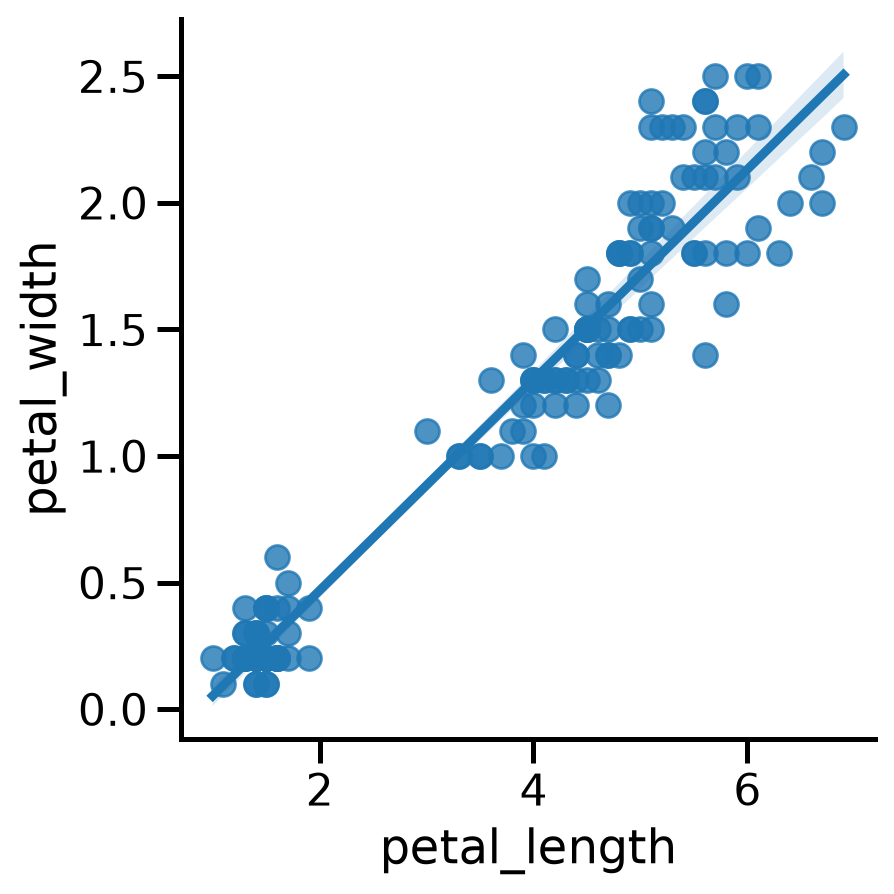
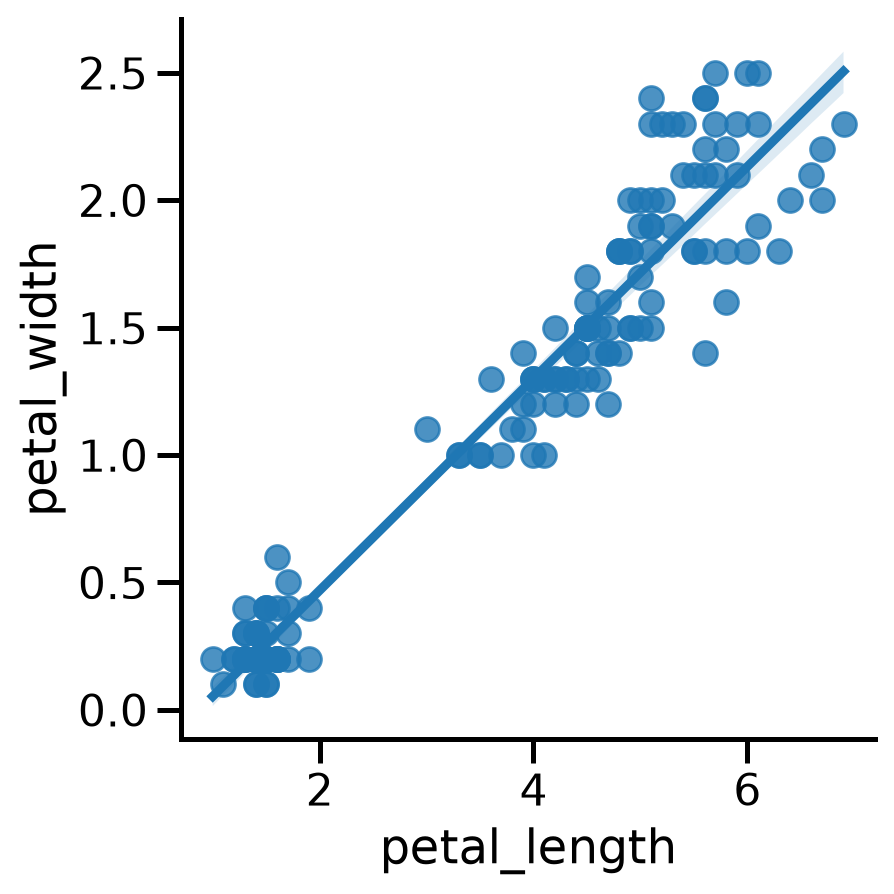
Built site for gh-pages

diff --git a/Ten_sent_corr/index.html b/Ten_sent_corr/index.html
@@ -226,7 +226,7 @@ div.csl-indent {
 
 <section id="introduction" class="level1">
 <h1>Introduction</h1>
-<div id="d594854a" class="cell" data-execution_count="1">
+<div id="823fd072" class="cell" data-execution_count="1">
 <div class="code-copy-outer-scaffold"><div class="sourceCode cell-code" id="cb1"><pre class="sourceCode python code-with-copy"><code class="sourceCode python"><span id="cb1-1"><a href="#cb1-1" aria-hidden="true" tabindex="-1"></a><span class="im">import</span> pandas <span class="im">as</span> pd</span>
 <span id="cb1-2"><a href="#cb1-2" aria-hidden="true" tabindex="-1"></a><span class="im">import</span> numpy <span class="im">as</span> np</span>
 <span id="cb1-3"><a href="#cb1-3" aria-hidden="true" tabindex="-1"></a></span>
@@ -250,7 +250,7 @@ div.csl-indent {
 </section>
 <section id="result" class="level1">
 <h1>Result</h1>
-<div id="eece08b1" class="cell" data-execution_count="2">
+<div id="3cc1770f" class="cell" data-execution_count="2">
 <div class="code-copy-outer-scaffold"><div class="sourceCode cell-code" id="cb2"><pre class="sourceCode python code-with-copy"><code class="sourceCode python"><span id="cb2-1"><a href="#cb2-1" aria-hidden="true" tabindex="-1"></a>corr_val <span class="op">=</span> np.array(df[[<span class="st">'petal_length'</span>, <span class="st">'petal_width'</span>]].corr())[<span class="dv">0</span>][<span class="dv">1</span>]</span>
 <span id="cb2-2"><a href="#cb2-2" aria-hidden="true" tabindex="-1"></a><span class="bu">print</span>(corr_val)</span>
 <span id="cb2-3"><a href="#cb2-3" aria-hidden="true" tabindex="-1"></a></span>
@@ -296,7 +296,7 @@ Figure&nbsp;1: A scatterplot of petal length and width
 <section id="discussion" class="level1">
 <h1>Discussion</h1>
 <p>Now that this long-standing problem (of over 10 minutes) is resolved (thanks to the diligent efforts of UW-Madison’s DSHB program) science has once again triumphed in establishing that there is a positive correlative relationship between iris petal width and iris petal length as a matter of empircally certain ground truth. The end (because we needed a second sentence).</p>
-<div id="eebb8b3d" class="cell" data-execution_count="4">
+<div id="556e9c32" class="cell" data-execution_count="4">
 <div class="code-copy-outer-scaffold"><div class="sourceCode cell-code" id="cb5"><pre class="sourceCode python code-with-copy"><code class="sourceCode python"><span id="cb5-1"><a href="#cb5-1" aria-hidden="true" tabindex="-1"></a>sns.lmplot(data <span class="op">=</span> df, x <span class="op">=</span> <span class="st">'petal_length'</span>,y <span class="op">=</span> <span class="st">'petal_width'</span>)</span></code></pre></div><button title="Copy to Clipboard" class="code-copy-button"><i class="bi"></i></button></div>
 <div class="cell-output cell-output-display">
 <div>
@@ -306,7 +306,7 @@ Figure&nbsp;1: A scatterplot of petal length and width
 </div>
 </div>
 </div>
-<div id="2ad17cce" class="cell" data-execution_count="5">
+<div id="41655298" class="cell" data-execution_count="5">
 <div class="code-copy-outer-scaffold"><div class="sourceCode cell-code" id="cb6"><pre class="sourceCode python code-with-copy"><code class="sourceCode python"><span id="cb6-1"><a href="#cb6-1" aria-hidden="true" tabindex="-1"></a>sns.jointplot(x <span class="op">=</span>df[<span class="st">'petal_length'</span>], </span>
 <span id="cb6-2"><a href="#cb6-2" aria-hidden="true" tabindex="-1"></a>y <span class="op">=</span> df[<span class="st">'petal_width'</span>], kind <span class="op">=</span> <span class="st">"hex"</span>,</span>
 <span id="cb6-3"><a href="#cb6-3" aria-hidden="true" tabindex="-1"></a>color <span class="op">=</span> <span class="st">"#4CB391"</span>)</span></code></pre></div><button title="Copy to Clipboard" class="code-copy-button"><i class="bi"></i></button></div>

diff --git a/index.html b/index.html
@@ -226,7 +226,7 @@ div.csl-indent {
 
 <section id="introduction" class="level1">
 <h1>Introduction</h1>
-<div id="c7c5bbe0" class="cell" data-execution_count="1">
+<div id="a1e36359" class="cell" data-execution_count="1">
 <div class="code-copy-outer-scaffold"><div class="sourceCode cell-code" id="cb1"><pre class="sourceCode python code-with-copy"><code class="sourceCode python"><span id="cb1-1"><a href="#cb1-1" aria-hidden="true" tabindex="-1"></a><span class="im">import</span> pandas <span class="im">as</span> pd</span>
 <span id="cb1-2"><a href="#cb1-2" aria-hidden="true" tabindex="-1"></a><span class="im">import</span> numpy <span class="im">as</span> np</span>
 <span id="cb1-3"><a href="#cb1-3" aria-hidden="true" tabindex="-1"></a></span>
@@ -250,7 +250,7 @@ div.csl-indent {
 </section>
 <section id="result" class="level1">
 <h1>Result</h1>
-<div id="9334098f" class="cell" data-execution_count="2">
+<div id="06a61d09" class="cell" data-execution_count="2">
 <div class="code-copy-outer-scaffold"><div class="sourceCode cell-code" id="cb2"><pre class="sourceCode python code-with-copy"><code class="sourceCode python"><span id="cb2-1"><a href="#cb2-1" aria-hidden="true" tabindex="-1"></a>corr_val <span class="op">=</span> np.array(df[[<span class="st">'petal_length'</span>, <span class="st">'petal_width'</span>]].corr())[<span class="dv">0</span>][<span class="dv">1</span>]</span>
 <span id="cb2-2"><a href="#cb2-2" aria-hidden="true" tabindex="-1"></a><span class="bu">print</span>(corr_val)</span>
 <span id="cb2-3"><a href="#cb2-3" aria-hidden="true" tabindex="-1"></a></span>
